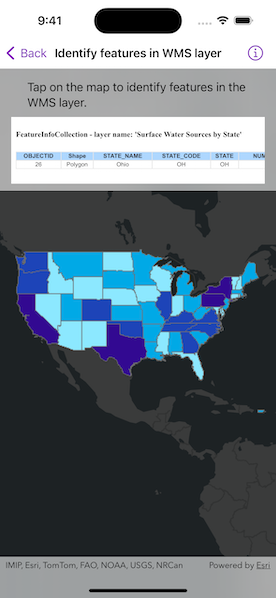
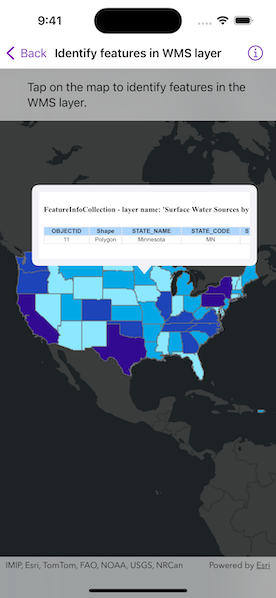
PR review feedback

Changed region(s): [[0.0, 0.1806, 1.0, 0.4515]]

diff --git a/Shared/Samples/Identify features in WMS layer/IdentifyFeaturesInWMSLayerView.swift b/Shared/Samples/Identify features in WMS layer/IdentifyFeaturesInWMSLayerView.swift
@@ -33,22 +33,34 @@ struct IdentifyFeaturesInWMSLayerView: View {
     /// The tapped screen point.
     @State private var tapScreenPoint: CGPoint?
     
-    /// The string text for the identify layer results overlay.
+    /// The placement of the callout on the map.
+    @State private var calloutPlacement: CalloutPlacement?
+    
+    /// The string text for the identify layer overlay.
     @State private var overlayText = "Tap on the map to identify features in the WMS layer."
-
+    
     /// The error shown in the error alert.
     @State private var error: Error?
 
     var body: some View {
         MapViewReader { mapViewProxy in
             MapView(map: map)
+                .callout(placement: $calloutPlacement.animation(.default.speed(2))) { _ in
+                    ScrollView(.horizontal) {
+                        WebView(htmlString: webViewText)
+                        // Set the width so the html is readable.
+                            .frame(width: 800, height: 95)
+                    }
+                    .frame(maxWidth: 300)
+                    .padding(10)
+                }
                 .onSingleTapGesture { screenPoint, _ in
                     tapScreenPoint = screenPoint
                 }
                 .task {
                     do {
                         // Create a WMS layer from a URL and load it.
-                        let wmsLayer = WMSLayer(url: .EPAWaterInfo, layerNames: ["4"])
+                        let wmsLayer = WMSLayer(url: .epaWaterInfo, layerNames: ["4"])
                         try await wmsLayer.load()
                         
                         // Add the layer to the map.
@@ -60,39 +72,39 @@ struct IdentifyFeaturesInWMSLayerView: View {
                     }
                 }
                 .task(id: tapScreenPoint) {
-                    // Identify on WMS layer using the screen point.
-                    webViewText = if let screenPoint = tapScreenPoint,
-                                     let waterInfoLayer,
-                                     // Identify feature on water info layer
-                                     let identifyResult = try? await mapViewProxy.identify(
-                                        on: waterInfoLayer,
-                                        screenPoint: screenPoint,
-                                        tolerance: 2
-                                     ),
-                                     // Convert the result to text.
-                                     let feature = identifyResult.geoElements.first,
-                                     let htmlText = feature.attributes["HTML"] as? String,
-                                     // Display the HTML table if it has an OBJECTID column.
-                                     htmlText.contains("OBJECTID") {
-                        htmlText
-                    } else {
-                        String()
+                    do {
+                        // Identify on WMS layer using the screen point.
+                        guard let screenPoint = tapScreenPoint,
+                              let waterInfoLayer else {
+                            return
+                        }
+                        // Identify feature on water info layer
+                        let identifyResult = try await mapViewProxy.identify(
+                            on: waterInfoLayer,
+                            screenPoint: screenPoint,
+                            tolerance: 2
+                        )
+                        // Convert the result to text.
+                        if let feature = identifyResult.geoElements.first,
+                           let htmlText = feature.attributes["HTML"] as? String,
+                           // Display the HTML table if it has an OBJECTID column.
+                           htmlText.contains("OBJECTID"),
+                           let location = mapViewProxy.location(fromScreenPoint: screenPoint) {
+                            webViewText = htmlText
+                            calloutPlacement = .location(location)
+                        } else {
+                            webViewText = ""
+                            calloutPlacement = nil
+                        }
+                    } catch {
+                        self.error = error
                     }
                 }
                 .overlay(alignment: .top) {
-                    VStack {
-                        Text(overlayText)
-                            .frame(maxWidth: .infinity, alignment: .center)
-                            .padding(.top)
-                        ScrollView(.horizontal) {
-                            WebView(htmlString: webViewText)
-                                // Set the width so the html is readable.
-                                .frame(width: 800, height: webViewText.isEmpty ? 0 : 95)
-                        }
-                        .padding(.horizontal)
-                        .padding(.bottom, webViewText.isEmpty ? 0 : 10)
-                    }
-                    .background(.thinMaterial, ignoresSafeAreaEdges: .horizontal)
+                    Text(overlayText)
+                        .frame(maxWidth: .infinity, alignment: .center)
+                        .padding()
+                        .background(.thinMaterial, ignoresSafeAreaEdges: .horizontal)
                 }
         }
         .errorAlert(presentingError: $error)
@@ -101,7 +113,7 @@ struct IdentifyFeaturesInWMSLayerView: View {
 
 private extension URL {
     /// A URL to the WMS service showing EPA water info.
-    static var EPAWaterInfo: URL {
+    static var epaWaterInfo: URL {
         URL(string: "https://watersgeo.epa.gov/arcgis/services/OWPROGRAM/SDWIS_WMERC/MapServer/WMSServer?request=GetCapabilities&service=WMS")!
     }
 }
